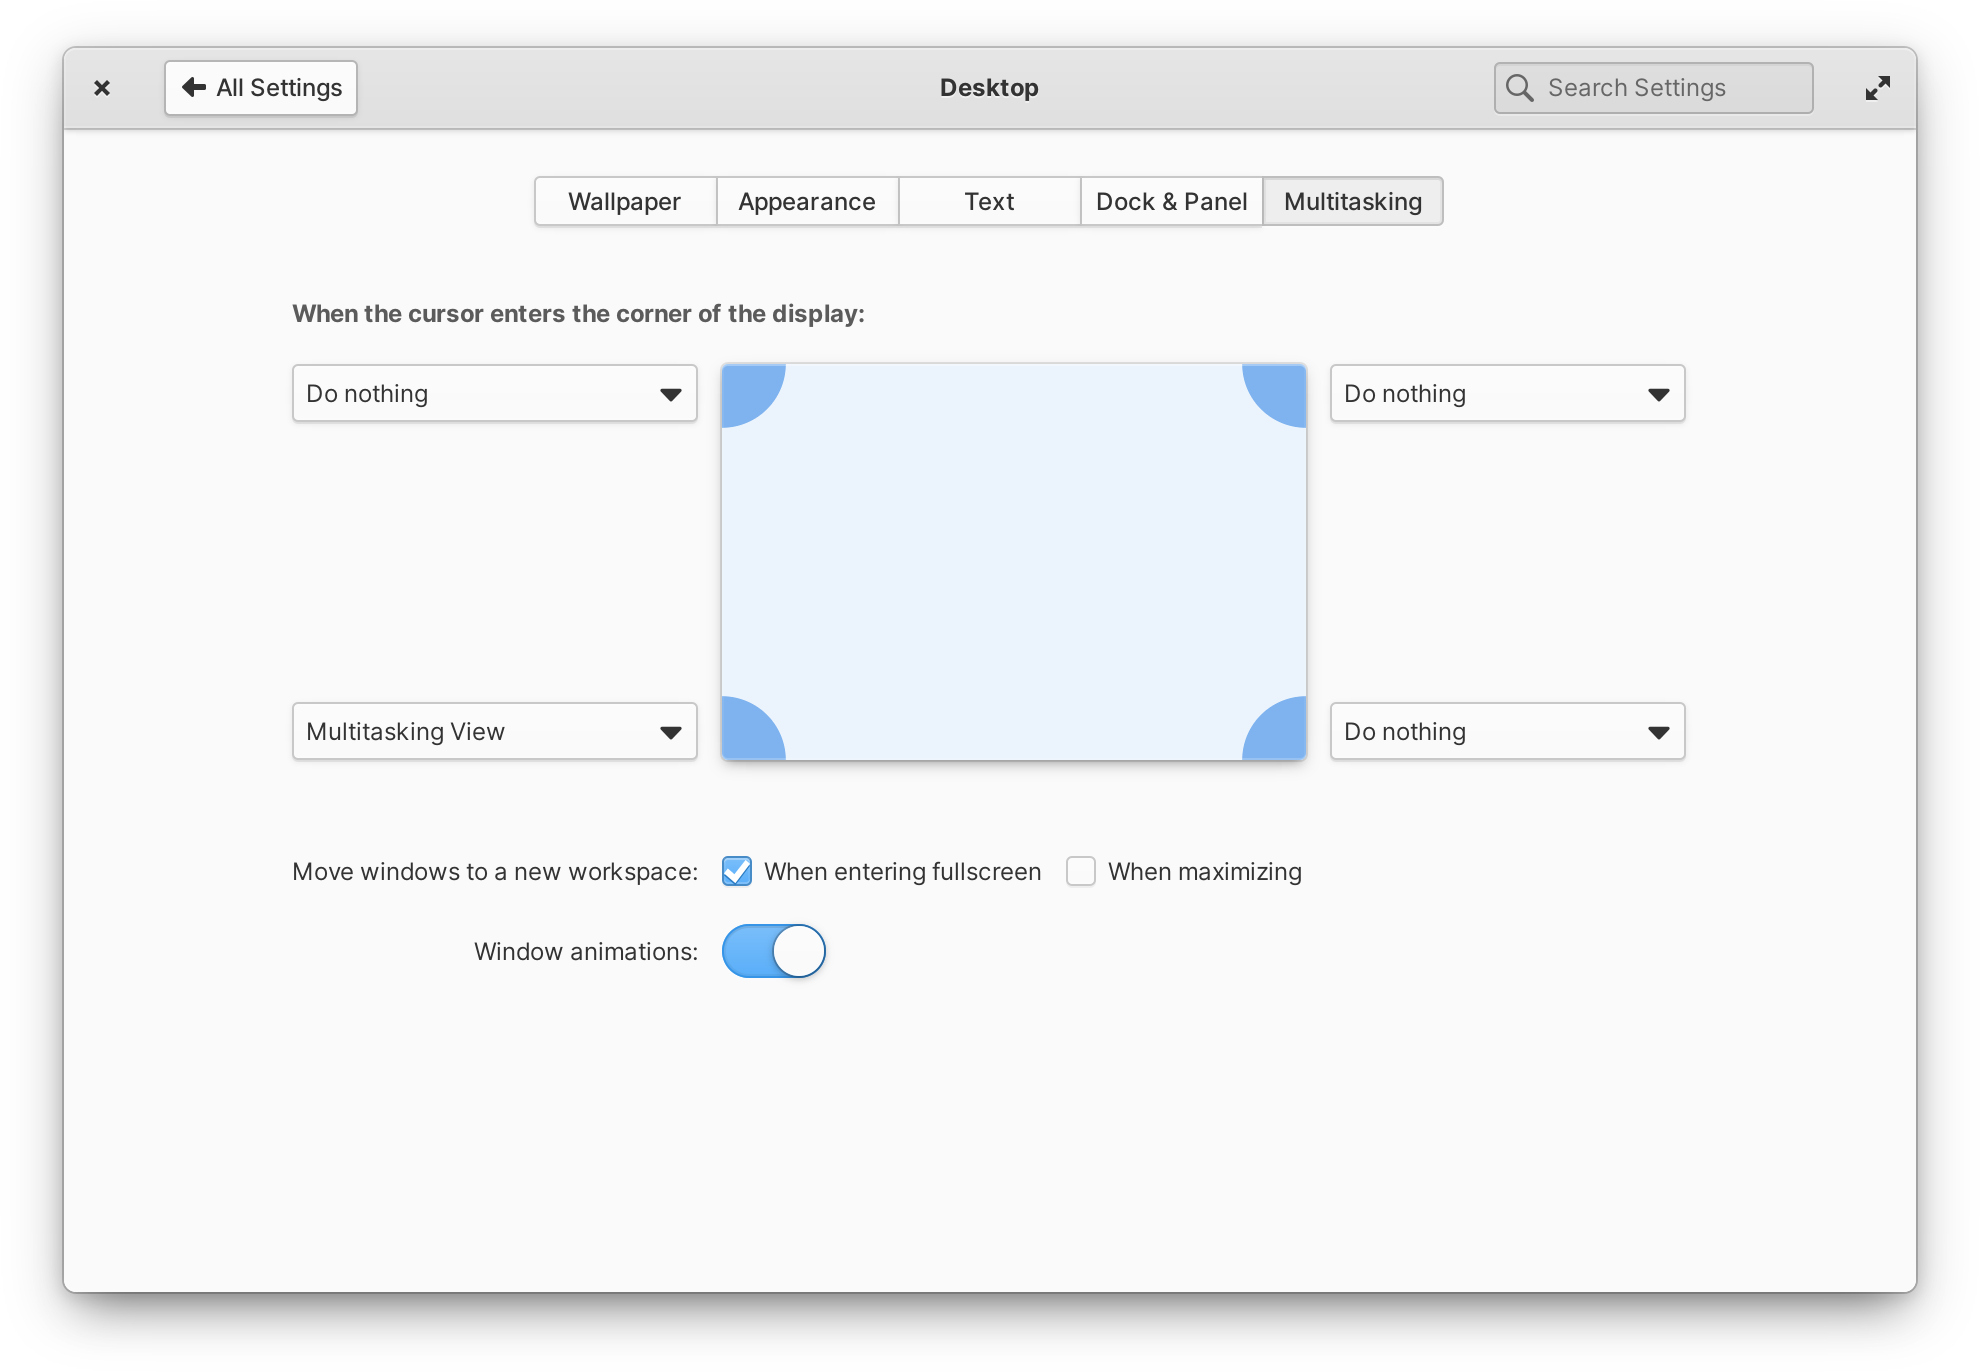
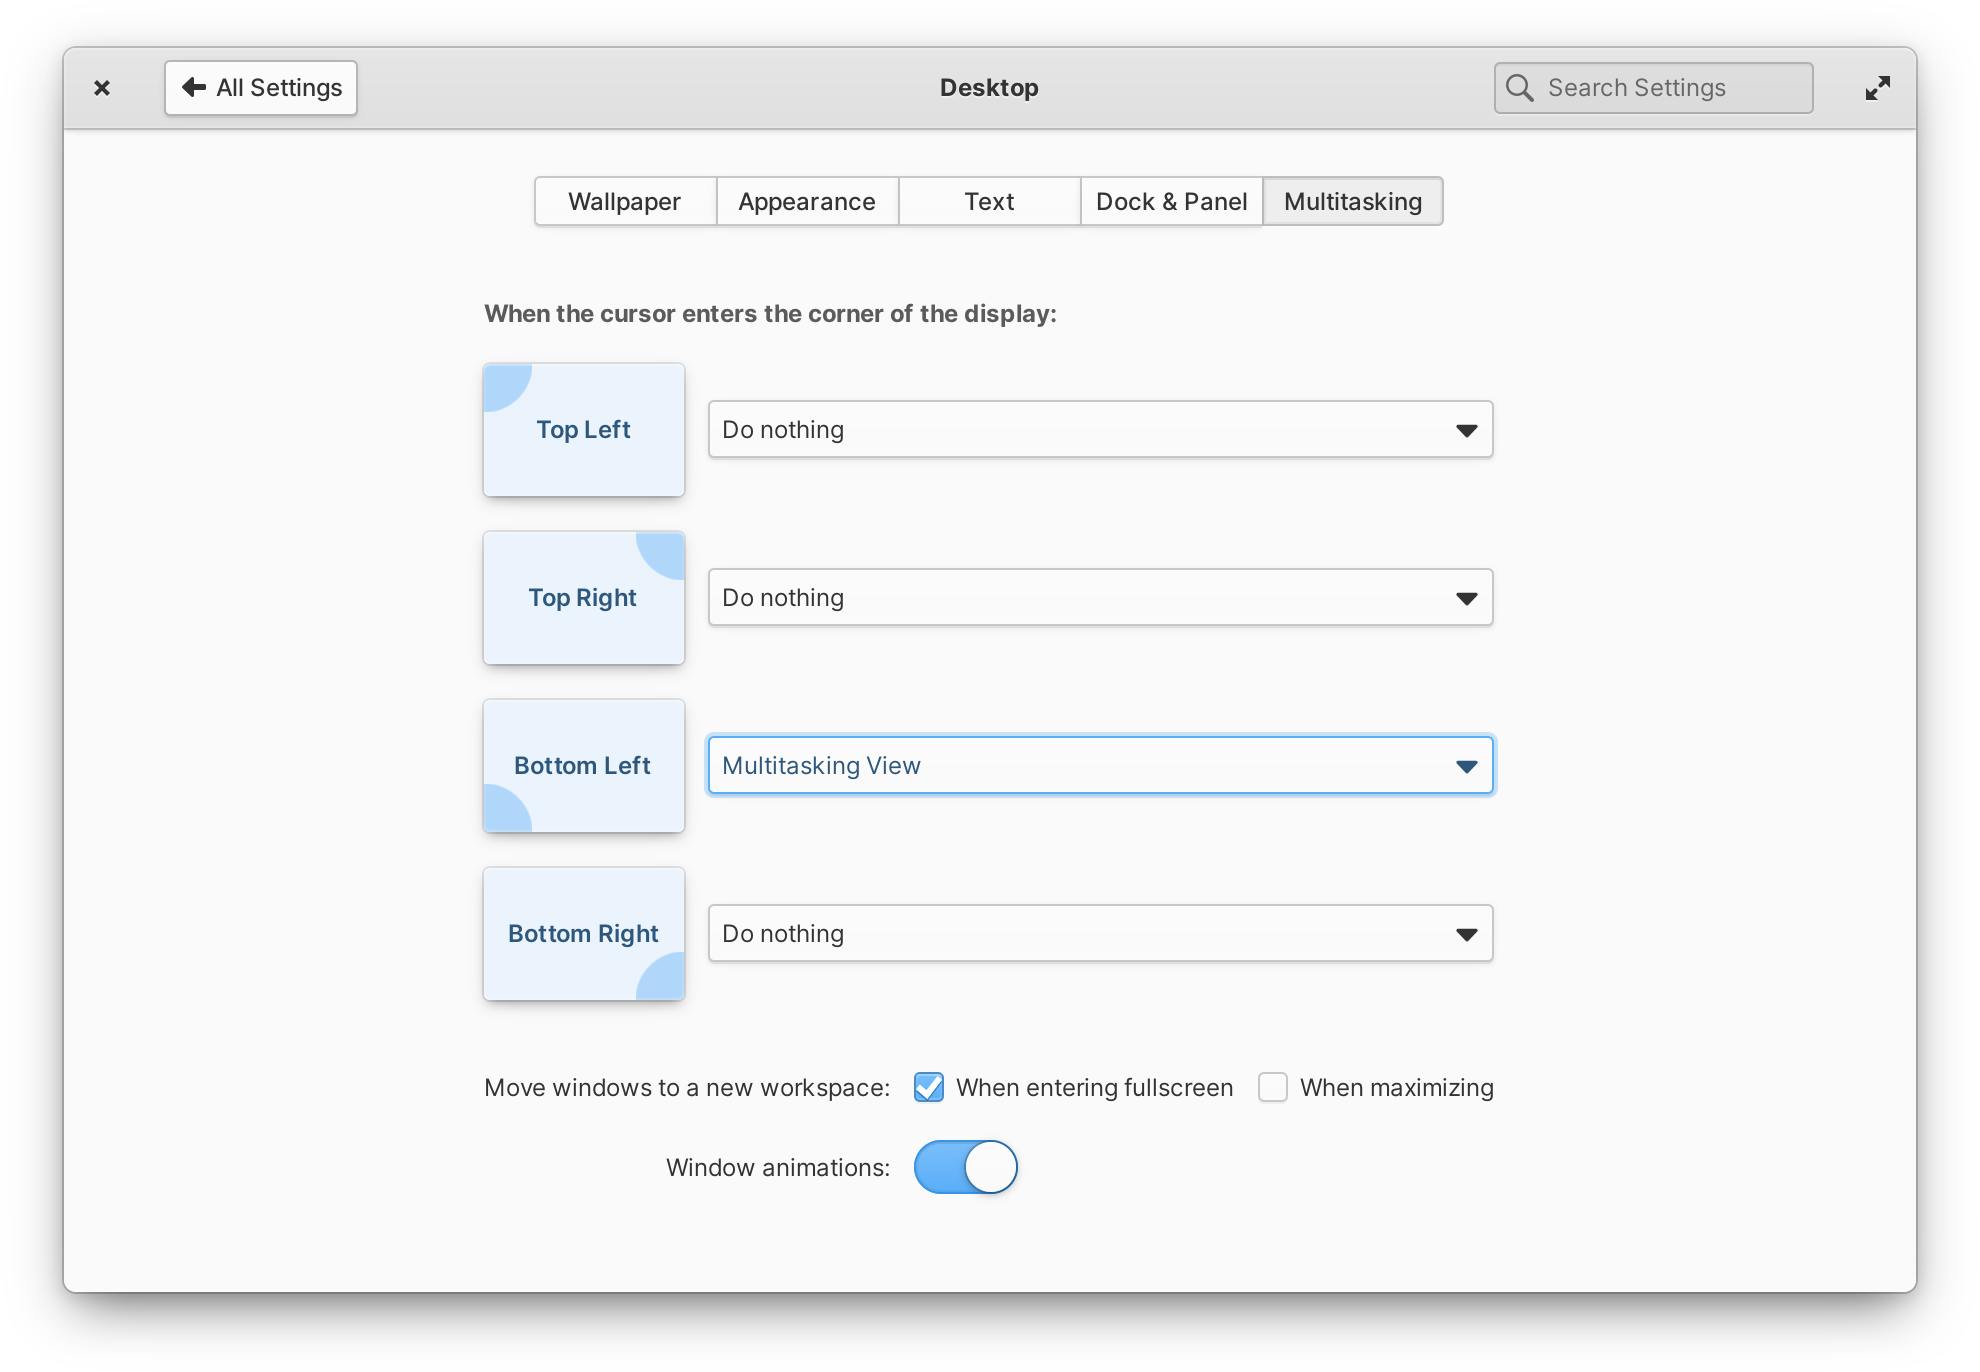
Multitasking: redesign

diff --git a/data/plug.css b/data/plug.css
@@ -17,27 +17,12 @@
 * Boston, MA 02110-1301 USA.
 */
 
-.hotcorner-display {
+.hotcorner {
     background-image:
         radial-gradient(
             circle,
-            alpha(@accent_color_500, 0.6) 70%,
-            alpha(@accent_color_500, 0) 1%
-        ),
-        radial-gradient(
-            circle,
-            alpha(@accent_color_500, 0.6) 70%,
-            alpha(@accent_color_500, 0) 1%
-        ),
-        radial-gradient(
-            circle,
-            alpha(@accent_color_500, 0.6) 70%,
-            alpha(@accent_color_500, 0) 1%
-        ),
-        radial-gradient(
-            circle,
-            alpha(@accent_color_500, 0.6) 70%,
-            alpha(@accent_color_500, 0) 1%
+            alpha(@accent_color, 0.4) 70%,
+            alpha(@accent_color, 0) 1px
         ),
         linear-gradient(
             to bottom,
@@ -45,8 +30,27 @@
             alpha (@accent_color_500, 0.1)
         );
     background-repeat: no-repeat;
-    background-position: -32px -32px, -32px calc(100% + 32px), calc(100% + 32px) -32px, calc(100% + 32px) calc(100% + 32px), 0;
-    background-size: 64px 64px, 64px 64px, 64px 64px, 64px 64px, cover;
+    background-size: 48px 48px, cover;
+    color: @selected_fg_color;
+    font-weight: 600;
+    min-height: 3.5em;
+    padding: 12px;
+}
+
+.hotcorner.topleft {
+    background-position: -24px -24px, 0;
+}
+
+.hotcorner.topright {
+    background-position: calc(100% + 24px) -24px, 0;
+}
+
+.hotcorner.bottomleft {
+    background-position: -24px calc(100% + 24px), 0;
+}
+
+.hotcorner.bottomright {
+    background-position: calc(100% + 24px) calc(100% + 24px), 0;
 }
 
 .wallpaper-container {
